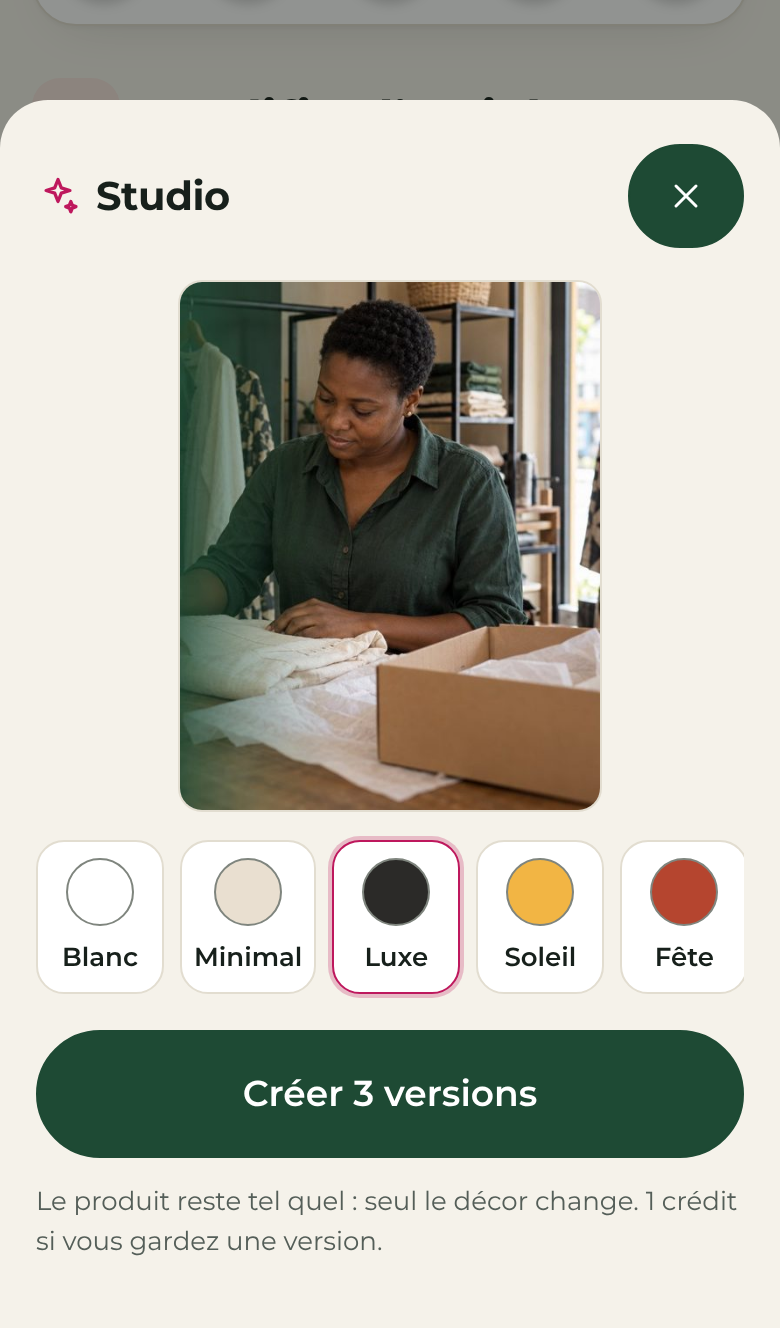
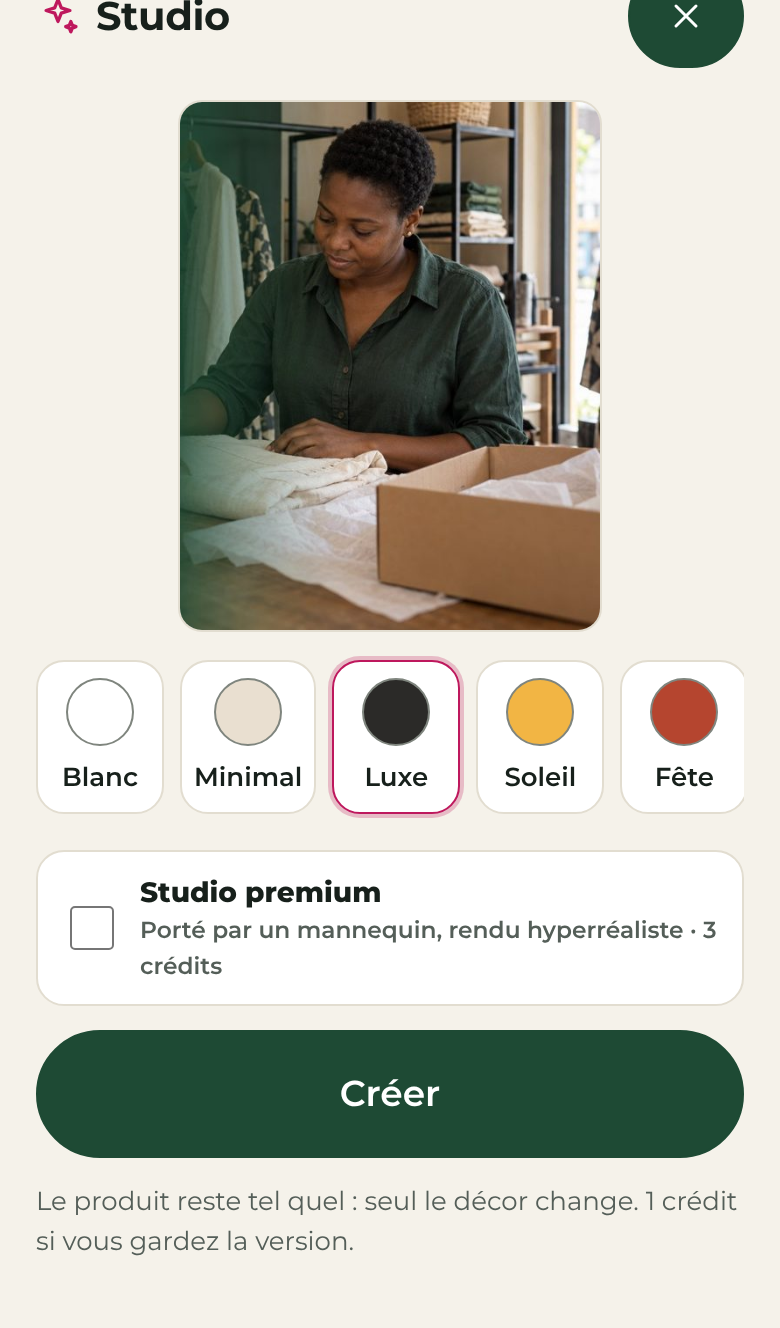
Fii Studio : modes Fidèle (Bria replace-background) et Studio premium (Nano Banana Pro 2K, comparaison avec l'original), une version par série
Claude-Session: https://claude.ai/code/session_017YReozxuCfYpxhCwcYgwRE

diff --git a/web/app.js b/web/app.js
@@ -448,6 +448,7 @@
     studio_off: 'Le Studio est indisponible pour le moment.',
     studio_no_photo: 'Ajoutez d’abord une photo de l’article.',
     studio_no_credits: 'Plus de crédit Studio pour le moment.',
+    studio_premium_off: 'Le mode Studio premium n’est pas disponible pour cette boutique.',
     studio_budget: 'Le Studio est en pause pour ce mois. Réessayez plus tard.',
     studio_daily_limit: 'Limite du jour atteinte : réessayez demain.',
     studio_busy: 'Une création est déjà en cours. Patientez quelques secondes.',
@@ -544,6 +545,7 @@
     studio_off: 'Le Studio est indisponible pour le moment.',
     studio_no_photo: 'Ajoutez d’abord une photo de l’article.',
     studio_no_credits: 'Plus de crédit Studio pour le moment.',
+    studio_premium_off: 'Le mode Studio premium n’est pas disponible pour cette boutique.',
     studio_budget: 'Le Studio est en pause pour ce mois. Réessayez plus tard.',
     studio_daily_limit: 'Limite du jour atteinte : réessayez demain.',
     studio_busy: 'Une création est déjà en cours. Patientez quelques secondes.',
@@ -7003,39 +7005,52 @@
           onclick: function () { style = x.id; draw(); } }, h('span', { class: 'sw', style: 'background:' + x.swatch }), h('span', null, x.label));
       }));
     }
+    // Deux modes (bench du 27/10/2026) : « Fidèle » (le produit garde ses pixels) et, selon la catégorie, « Studio premium »
+    // (rendu studio hyperréaliste ; la boutique compare avec l'original avant de garder). Une version par série.
+    var prem = st.premium || null, mode = 'fidele';
+    function need() { return mode === 'premium' && prem ? prem.credits : 1; }
+    function modeLine() {
+      if (!prem) return null;
+      return h('label', { class: 'row studio-mode', style: 'gap:10px;align-items:center' },
+        h('input', { type: 'checkbox', id: 'studio-premium', checked: mode === 'premium' || null, onchange: function () { mode = this.checked ? 'premium' : 'fidele'; draw(); } }),
+        h('span', { class: 'stack tight', style: 'gap:0' }, h('b', null, 'Studio premium'),
+          h('small', { class: 'muted' }, (prem.wear ? 'Porté par un mannequin, rendu hyperréaliste' : 'Lumière et décor de studio hyperréalistes') + ' · ' + prem.credits + ' crédits')));
+    }
     function draw() {
       setKids(err);
       if (busy) {
-        setKids(body, h('p', { class: 'small muted', role: 'status' }, 'Création des 3 versions… environ 20 secondes.'),
-          h('div', { class: 'studio-grid' }, [0, 1, 2].map(function () { return h('div', { class: 'studio-tile loading-skel', 'aria-hidden': 'true' }); })));
+        setKids(body, h('p', { class: 'small muted', role: 'status' }, mode === 'premium' ? 'Création en studio… environ 30 secondes.' : 'Création… environ 15 secondes.'),
+          h('div', { class: 'studio-one loading-skel', 'aria-hidden': 'true' }));
         return;
       }
       if (job && job.results && job.results.length) {
-        var tiles = job.results.map(function (u, i) {
-          return h('button', { type: 'button', class: 'studio-tile' + (pick === i ? ' on' : ''), id: 'studio-res-' + i, 'aria-pressed': String(pick === i),
-            'aria-label': 'Version ' + (i + 1), onclick: function () { pick = i; draw(); } }, h('img', { src: u, alt: '' }));
-        });
+        pick = 0;
         setKids(body,
-          h('div', { class: 'studio-orig' }, h('img', { src: pr.photo, alt: 'Photo d’origine' }), h('small', null, 'Original')),
-          h('div', { class: 'studio-grid' }, tiles),
-          h('button', { class: 'btn big full', type: 'button', id: 'studio-keep', disabled: pick == null || null, onclick: keep }, 'Garder cette version'),
-          h('button', { class: 'btn link', type: 'button', id: 'studio-again', onclick: function () { job = null; pick = null; draw(); } }, 'Essayer un autre style'));
+          h('div', { class: 'studio-compare' },
+            h('figure', null, h('img', { src: pr.photo, alt: 'Photo d’origine' }), h('figcaption', null, 'Original')),
+            h('figure', null, h('img', { src: job.results[0], alt: 'Version Studio', id: 'studio-res-0' }), h('figcaption', null, job.mode === 'premium' ? 'Studio premium' : 'Studio'))),
+          job.mode === 'premium' ? h('p', { class: 'small', id: 'studio-check' }, h('b', null, 'Le produit est-il identique à l’original ?'), ' Forme, couleurs, logo, texte de l’étiquette.') : null,
+          h('button', { class: 'btn big full', type: 'button', id: 'studio-keep', onclick: keep }, job.mode === 'premium' ? 'Oui, garder (' + job.need + ' crédits)' : 'Garder cette version'),
+          h('button', { class: 'btn link', type: 'button', id: 'studio-again', onclick: run }, job.mode === 'premium' ? 'Non, autre proposition' : 'Autre proposition'),
+          h('button', { class: 'btn link', type: 'button', id: 'studio-back', onclick: function () { job = null; draw(); } }, 'Changer de décor'));
         return;
       }
       setKids(body,
         h('div', { class: 'studio-orig solo' }, h('img', { src: pr.photo, alt: 'Photo d’origine' })),
         styles(),
-        credits ? h('button', { class: 'btn big full', type: 'button', id: 'studio-run', onclick: run }, 'Créer 3 versions') :
-          h('p', { class: 'notice', id: 'studio-empty' }, 'Plus de crédit Studio pour le moment.'),
-        h('p', { class: 'small muted' }, 'Le produit reste tel quel : seul le décor change. 1 crédit si vous gardez une version.'));
+        modeLine(),
+        credits >= need() ? h('button', { class: 'btn big full', type: 'button', id: 'studio-run', onclick: run }, 'Créer') :
+          h('p', { class: 'notice', id: 'studio-empty' }, credits ? 'Pas assez de crédits Studio pour ce mode.' : 'Plus de crédit Studio pour le moment.'),
+        h('p', { class: 'small muted' }, mode === 'premium' ? 'Rendu de studio : comparez avec l’original avant de garder. Rien n’est débité si vous ne gardez pas.' :
+          'Le produit reste tel quel : seul le décor change. 1 crédit si vous gardez la version.'));
     }
     function run() {
       busy = true; draw(); track('studio', 'run:' + style);
-      studioCall({ action: 'render', product: pr.id, style: style }).then(function (r) {
+      studioCall({ action: 'render', product: pr.id, style: style, mode: mode }).then(function (r) {
         busy = false;
         if (r.configured === false) { draw(); errBox(err, new ApiError('studio_off')); return; }
         if (r.error || r.status !== 'done') { draw(); errBox(err, new ApiError(STUDIO_ERR[r.error] ? r.error : 'studio_failed')); return; }
-        job = { id: r.job, results: r.results }; pick = null; draw();
+        job = { id: r.job, results: r.results, mode: mode, need: need() }; draw();
       });
     }
     function keep() {
@@ -7063,7 +7078,7 @@
     draw();
     closeSheet = openSheet(back);
   }
-  var STUDIO_ERR = { studio_off: 1, studio_no_photo: 1, studio_no_credits: 1, studio_budget: 1, studio_daily_limit: 1, studio_busy: 1, studio_failed: 1, studio_expired: 1 };
+  var STUDIO_ERR = { studio_premium_off: 1, studio_off: 1, studio_no_photo: 1, studio_no_credits: 1, studio_budget: 1, studio_daily_limit: 1, studio_busy: 1, studio_failed: 1, studio_expired: 1 };
   function productForm(pr, shop, fresh) {
     var f = { name: pr ? pr.name : '', price: pr ? String(pr.price) : '', description: pr ? pr.description || '' : '', active: pr ? pr.active : true, photo: pr ? pr.photo || null : null };
     f.category = pr && pr.category || ''; f.sizes = (pr && pr.sizes || []).join(', '); f.colors = (pr && pr.colors || []).join(', ');
@@ -8689,7 +8704,7 @@
         h('h3', null, 'Dernières séries'),
         boTable([
           { label: 'Boutique', get: function (x) { return h('span', { class: 'stack tight', style: 'gap:0' }, h('a', { href: '#/bo/boutiques/' + x.shop_id }, x.shop), h('small', { class: 'muted' }, x.product)); } },
-          { label: 'Décor', get: function (x) { return sceneLabel[x.style] || x.style; } },
+          { label: 'Décor', get: function (x) { return (sceneLabel[x.style] || x.style) + (x.mode === 'premium' ? ' · premium' : ''); } },
           { label: 'Statut', get: function (x) { var t = STUDIO_ST[x.status] || ['muted', x.status]; return h('span', null, boBadge(t[0], t[1]), x.error ? h('small', { class: 'muted' }, ' ' + x.error) : null); } },
           { label: 'Coût', get: function (x) { return '$' + Number(x.cost_usd || 0).toFixed(2); }, cls: 'hide-s' },
           { label: 'Date', get: function (x) { return boDate(x.created_at); }, cls: 'hide-s' }], d.jobs || [], { id: 'bo-studio-jobs', empty: 'Aucune série pour le moment.' })
@@ -9642,7 +9657,8 @@
     shop_subdomains: ['Adresses <lien>.getfii.app des boutiques', '0 = coupées, 1 = ouvertes'],
     studio_ready: ['Fii Studio ouvert aux boutiques', '0 = fermé, 1 = ouvert (après la clé du fournisseur)'],
     studio_budget_usd: ['Budget mensuel du Studio', 'USD (au-delà, le Studio se met en pause)'],
-    studio_daily: ['Séries Studio par boutique et par jour', 'séries'] };
+    studio_daily: ['Séries Studio par boutique et par jour', 'séries'],
+    studio_premium: ['Mode Studio premium (rendu de studio hyperréaliste)', '0 = coupé, 1 = proposé'], studio_premium_credits: ['Crédits pour garder une version Studio premium', 'crédits'] };
   // « Prénom · rôle » tel que gardé au journal, avec le rôle en clair.
   function boActor(a) { return String(a || '—').replace(/ · ([a-z_]+)$/, function (m, r) { return ' · ' + (BO_ROLES[r] || r); }); }
   function boActionLabel(a, d) {

diff --git a/web/styles.css b/web/styles.css
@@ -2026,3 +2026,10 @@ html.native button,html.native .btn,html.native .tab,html.native .chip,html.nati
 .studio-tile{display:block;padding:0;border:2px solid transparent;border-radius:14px;overflow:hidden;background:var(--surface-2);aspect-ratio:4/5;cursor:pointer}
 .studio-tile img{display:block;width:100%;height:100%;object-fit:cover}
 .studio-tile.on{border-color:var(--c-marketing);box-shadow:0 0 0 2px color-mix(in srgb,var(--c-marketing) 30%,transparent)}
+.studio-compare{display:grid;grid-template-columns:1fr 1fr;gap:8px}
+.studio-compare figure{margin:0;position:relative}
+.studio-compare img{display:block;width:100%;aspect-ratio:4/5;object-fit:cover;border-radius:12px;border:1px solid var(--line);background:var(--surface-2)}
+.studio-compare figcaption{position:absolute;left:6px;bottom:6px;background:rgba(0,0,0,.55);color:#fff;font-size:11px;padding:2px 6px;border-radius:6px}
+.studio-one{width:min(70%,260px);aspect-ratio:4/5;border-radius:12px;align-self:center}
+.studio-mode{justify-content:flex-start;text-align:left;padding:10px 12px;border:1px solid var(--line);border-radius:14px;background:var(--surface)}
+.studio-mode input{width:22px;height:22px;flex:0 0 auto;accent-color:var(--c-marketing)}

diff --git a/docs/HANDOFF.md b/docs/HANDOFF.md
@@ -84,6 +84,7 @@ Fii La permet d'expliquer **une seule fois** comment arriver à une entrée : po
 
 | Date | Décision | Par |
 |---|---|---|
+| 27/10 | Fii Studio : deux modes, « Fidèle » (produit intact) et « Studio premium » (rendu de studio, comparaison obligatoire), recettes studio v0.2 ; prix du premium (3 crédits) **à confirmer** | Fondateur (« go », 01:09), sur proposition du Builder |
 | 27/10 | **Fii Studio : base de connaissances propriétaire dans XEL (privé), `Production/FII_STUDIO/`** — consultée avant chaque génération (règle R1), un pack d'outils et de prompts par catégorie et par boutique, jamais un modèle standard (R2), un dossier par boutique qui utilise le Studio (R3), alimentée chaque jour par les boutiques et le fondateur. Rien de propriétaire dans fii-la (public). Mission XEL #129 | Fondateur (00:01, 00:05) |
 | 26/10 | **Domaine : `getfii.app`**, acheté par le fondateur chez Porkbun (8,75 USD la 1ʳᵉ année, 14,93 USD/an ensuite), pour l'application et les sites des boutiques (`<lien>.getfii.app`, sous-domaines réservés : www, sites, api…). Remplace `fii.app` + `fii.shop` (premium : 3 895 et 2 184 USD) | Fondateur (21:35), sur recommandation du Builder |
 | 26/10 | Domaine : `fii.app` est **pris** (Dynadot, depuis 2022, en vente 3 895 USD) ; `fii.shop` est **libre** ; `fiila.app` est libre. Décision d'achat remontée au fondateur (ne pas payer 3 895 USD avant revenus : recommandation du Builder) | Builder (constat 19:33), décision : fondateur |
@@ -286,6 +287,7 @@ Les tests créent puis suppriment des données synthétiques. Ne jamais lancer l
 
 | Date (Dakar) | Action | Commit / preuve |
 |---|---|---|
+| 27/10 01:45 | Fii Studio : deux modes (« go », 01:09) — **Fidèle** (Bria replace-background, 1 crédit) et **Studio premium** (Nano Banana Pro 2K, 3 crédits, comparaison « Le produit est-il identique ? », mannequin pour mode/couture, jamais pour bijoux/plats/pâtisserie/fleurs) ; une version par série + « Autre proposition » ; gabarits de prompt en données (XEL) ; back-office : mode dans les séries, réglages `studio_premium`, `studio_premium_credits` ; tests `studio.sql` 14/14, `studiofn` 8/8, `studio` 4/4 | voir commit |
 | 27/10 01:15 | 84 décors des packs (v0.1.0, depuis XEL) chargés dans `fiila.studio_scenes` en production ; bench « studio premium et packaging » fait (≈ 4,8 USD, relais à nouveau neutralisé) : Nano Banana Pro meilleur rendu, texte 8/8 exact, détails à vérifier ; proposition : modes « Fidèle » (Bria replace) et « Studio premium » (Nano Banana Pro) — XEL `bench/STUDIO_PREMIUM.md` | SQL + XEL |
 | 27/10 00:55 | Bench interne fait (≈ 3,8 USD sur fal, 20 produits synthétiques × 3 outils + 3 vidéos) ; relais `fiila-studio-bench` neutralisé (410), jeton de session effacé ; verdict proposé : Bria replace-background (objets, bijoux, plats), Nano Banana 2.1 sur mannequin (vêtements), MiniMax H3 Max (vidéo) — détail dans XEL `Production/FII_STUDIO/bench/INTERNE.md`. **[Fondateur]** supprimer la clé fal `fii-studio-bench` et le secret `FAL_BENCH_KEY` | voir commit |
 | 27/10 01:40 | Bench interne Fii Studio : fonction TEMPORAIRE `fiila-studio-bench` (relais fal, clé `FAL_BENCH_KEY` du fondateur, jeton de session dont seule l'empreinte est dans le code, liste de modèles fermée, photos d'entrée synthétiques) ; à neutraliser après le bench. En attente : secret `FAL_BENCH_KEY` introuvable | voir commit |

diff --git a/docs/BACK-OFFICE.md b/docs/BACK-OFFICE.md
@@ -25,7 +25,7 @@
 |---|---|
 | Super admin | Tout, dont l'équipe, les réglages et le journal |
 | Opérations | Boutiques (lecture et actions), commandes, comptes, fil, modération, vide-dressing, ambassadeurs, finances |
-| Studio (26/10) | Fii Studio : ouvert ou fermé (`studio_ready`), dépense du mois face au budget (`studio_budget_usd`), séries, versions gardées, échecs, boutiques ; crédits des boutiques ; « Accorder des crédits » (recherche de la boutique, nombre positif ou négatif, motif obligatoire, journal `studio_grant`) ; dernières séries (décor, statut, coût, erreur). Réglage `studio_daily`. **27/10 : « Décors par catégorie »** (section repliée) : décors de chaque pack, versions gardées / séries par décor, couper ou activer un décor (motif obligatoire, journal `studio_scene`). Tests : `studio.sql` (12), `backoffice` |
+| Studio (26/10) | Fii Studio : ouvert ou fermé (`studio_ready`), dépense du mois face au budget (`studio_budget_usd`), séries, versions gardées, échecs, boutiques ; crédits des boutiques ; « Accorder des crédits » (recherche de la boutique, nombre positif ou négatif, motif obligatoire, journal `studio_grant`) ; dernières séries (décor, statut, coût, erreur). Réglage `studio_daily`. **27/10 : « Décors par catégorie »** (section repliée) : décors de chaque pack, versions gardées / séries par décor, couper ou activer un décor (motif obligatoire, journal `studio_scene`). **27/10 : modes** — dernières séries « · premium » ; réglages `studio_premium` (0/1) et `studio_premium_credits` (1–10). Tests : `studio.sql` (14), `studiofn` (8), `studio` (4), `backoffice` |
 | Domaines (24/10) | Domaines propres des boutiques Premium : nom, boutique (gratuite signalée), statut (en attente, vérification, actif, erreur, expiré, déconnecté), certificat, dernière erreur de Cloudflare, date. « Revérifier » (relit Cloudflare) ; « Déconnecter » avec motif obligatoire (droit `shops_write`, journal `domain_disconnect`, nom retiré chez Cloudflare). Interrupteurs `custom_domains` et `shop_subdomains` (adresses `<lien>.fii.shop`) dans Réglages. Test : `backoffice` (16 sections), `domains.sql` |
 | Modération | Commentaires, vérification du vide-dressing (sans téléphones), suspension et réactivation des boutiques |
 | Support | Lecture des boutiques, commandes et comptes |

diff --git a/docs/PLAN-FII-STUDIO.md b/docs/PLAN-FII-STUDIO.md
@@ -47,6 +47,10 @@
 
 Fondateur (27/10) : « Je ne veux pas un modèle de génération standard pour toutes les boutiques ». Les décors proposés viennent du **pack de la catégorie** de la boutique (base privée Aramis Studio, dépôt XEL, `Production/FII_STUDIO/packs/`), chargés comme données dans la table `fiila.studio_scenes` — aucun prompt propriétaire dans ce dépôt public. Les décors qu'une boutique garde le plus passent en tête de sa liste. Coiffure, esthétique et services : pas de Studio (pas de faux résultat). Back-office → Studio → « Décors par catégorie » : taux de versions gardées par décor, couper/activer un décor (motif, journal). Repli : les 5 décors génériques.
 
+## 4 ter. Deux modes et recettes studio (27/10/2026, « go » 01:09)
+
+Bench « studio premium » (base privée XEL, `bench/STUDIO_PREMIUM.md`). **Fidèle** (Bria replace-background, 0,04 USD) : le produit garde ses pixels, 1 crédit. **Studio premium** (Nano Banana Pro 2K, 0,15 USD) : rendu de studio hyperréaliste ; pour mode et couture, porté par un mannequin ; la boutique voit l'original et la version côte à côte (« Le produit est-il identique ? ») ; garder coûte `studio_premium_credits` crédits (3 par défaut, **à confirmer par le fondateur**). Jamais de premium pour bijoux, plats, pâtisserie, fleurs. Une version par série, « Autre proposition » relance. Recettes v0.2 (77, schémas d'éclairage nommés) et gabarits de prompt chargés depuis XEL dans la base.
+
 ## 5. Suite (après le critère des 30 jours)
 
 - **Niveau 2 :** visuel pub (nom, prix, logo) avec le décor Studio comme fond des cartes de Publier. Petit travail : les modèles existent déjà.
